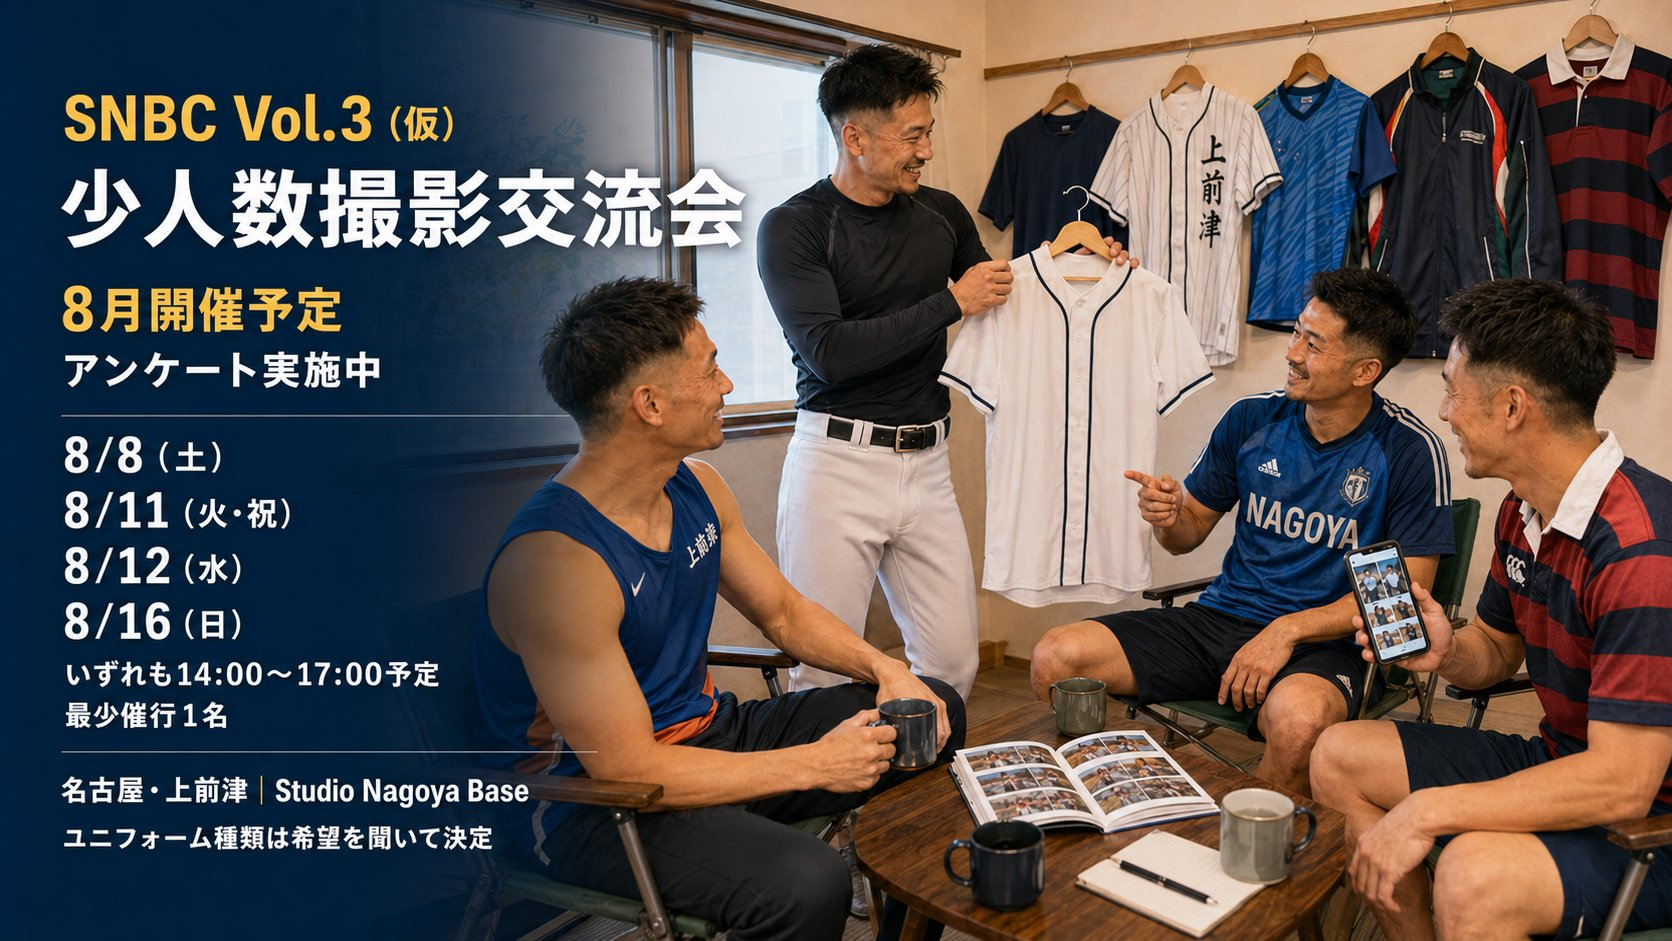
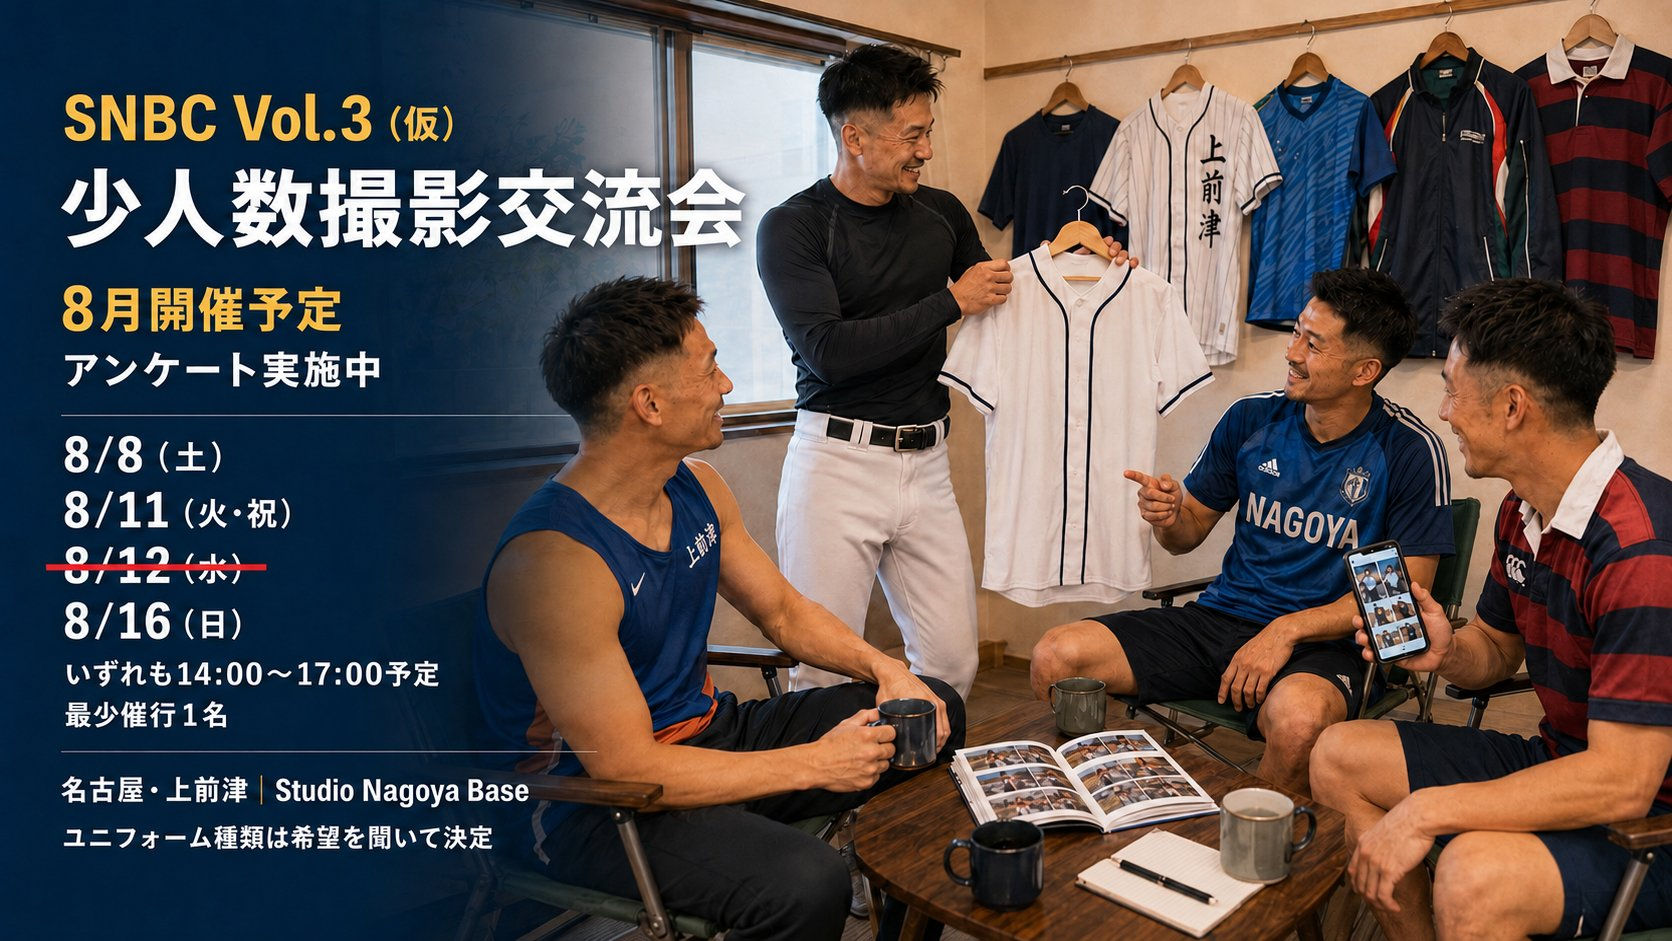
fix(community): Vol.3のOGP・ヒーロー画像を8/12取消線版へ差し替え
- hero-photo-main.jpg/webp とmeta-ogp-main.jpgを8/12(水)取消線入りの最新デザインへ再書き出し
- meta-ogp-main.jpgはOGP規定の1200x630へ中央クロップ(左側の日程・取消線を欠けさせない範囲)
- og:image:width/heightを1200/630に更新
- 元のランダムなファイル名の画像(1A11E3DA...)を削除

diff --git a/community/vol3_uniform.html b/community/vol3_uniform.html
@@ -14,14 +14,14 @@
   <meta property="og:type" content="website">
   <meta property="og:url" content="https://nagoya-base.github.io/snb-community/community/vol3_uniform.html">
   <!--
-    OGP画像はVol.3の候補日・アンケート実施中を含む告知ビジュアル。
+    OGP画像はVol.3の候補日・アンケート実施中を含む告知ビジュアル（8/12(水)取消線版、1200x630）。
     回答期限（2026-07-31）を過ぎたら、この2枚(og:image/twitter:image)と
     width/heightを images/community/top/meta-ogp-main.jpg (1731x909) へ
     手動で差し戻すこと（静的サイトのためOGPはJSで自動切替できない）。
   -->
   <meta property="og:image" content="https://nagoya-base.github.io/snb-community/images/community/vol3/meta-ogp-main.jpg">
-  <meta property="og:image:width" content="1672">
-  <meta property="og:image:height" content="941">
+  <meta property="og:image:width" content="1200">
+  <meta property="og:image:height" content="630">
   <meta name="twitter:card" content="summary_large_image">
   <meta name="twitter:title" content="Vol.3 少人数ユニフォーム撮影交流会｜SNBコミュニティ">
   <meta name="twitter:description" content="名古屋・上前津で開催する少人数ユニフォーム撮影交流会 Vol.3。参加可能日と希望ユニフォームを複数選択で回答できます。最少催行4名、参加人数に応じて参加費が変動します。">
